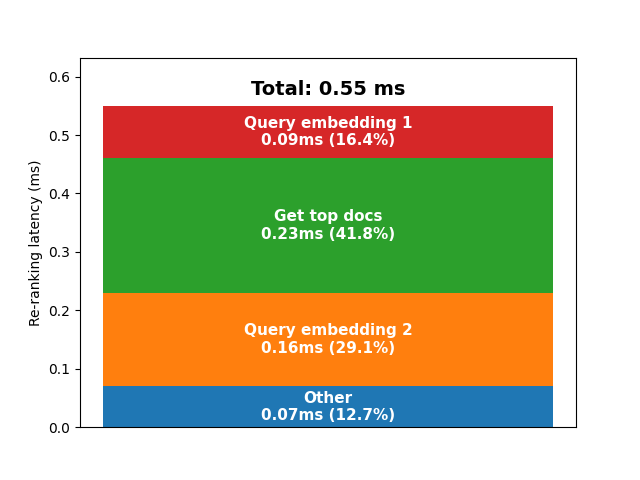
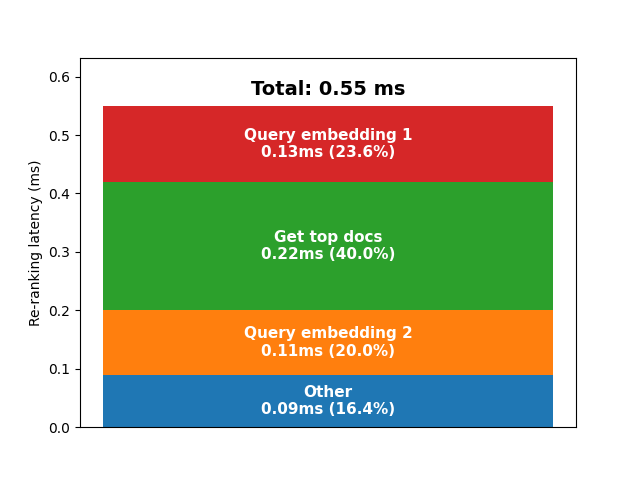
update q_enc_dist plot

diff --git a/plot_data/q_enc_distribution.py b/plot_data/q_enc_distribution.py
@@ -82,9 +82,9 @@ def main(args: argparse.Namespace) -> None:
     """
     profiles = {
         "total": 0.55,
-        "q_emb_1": 0.09,
-        "_get_top_docs": 0.23,
-        "q_emb_2": 0.16,
+        "q_emb_1": 0.13,
+        "_get_top_docs": 0.22,
+        "q_emb_2": 0.11,
     }
 
     plot_runtimes(profiles)
